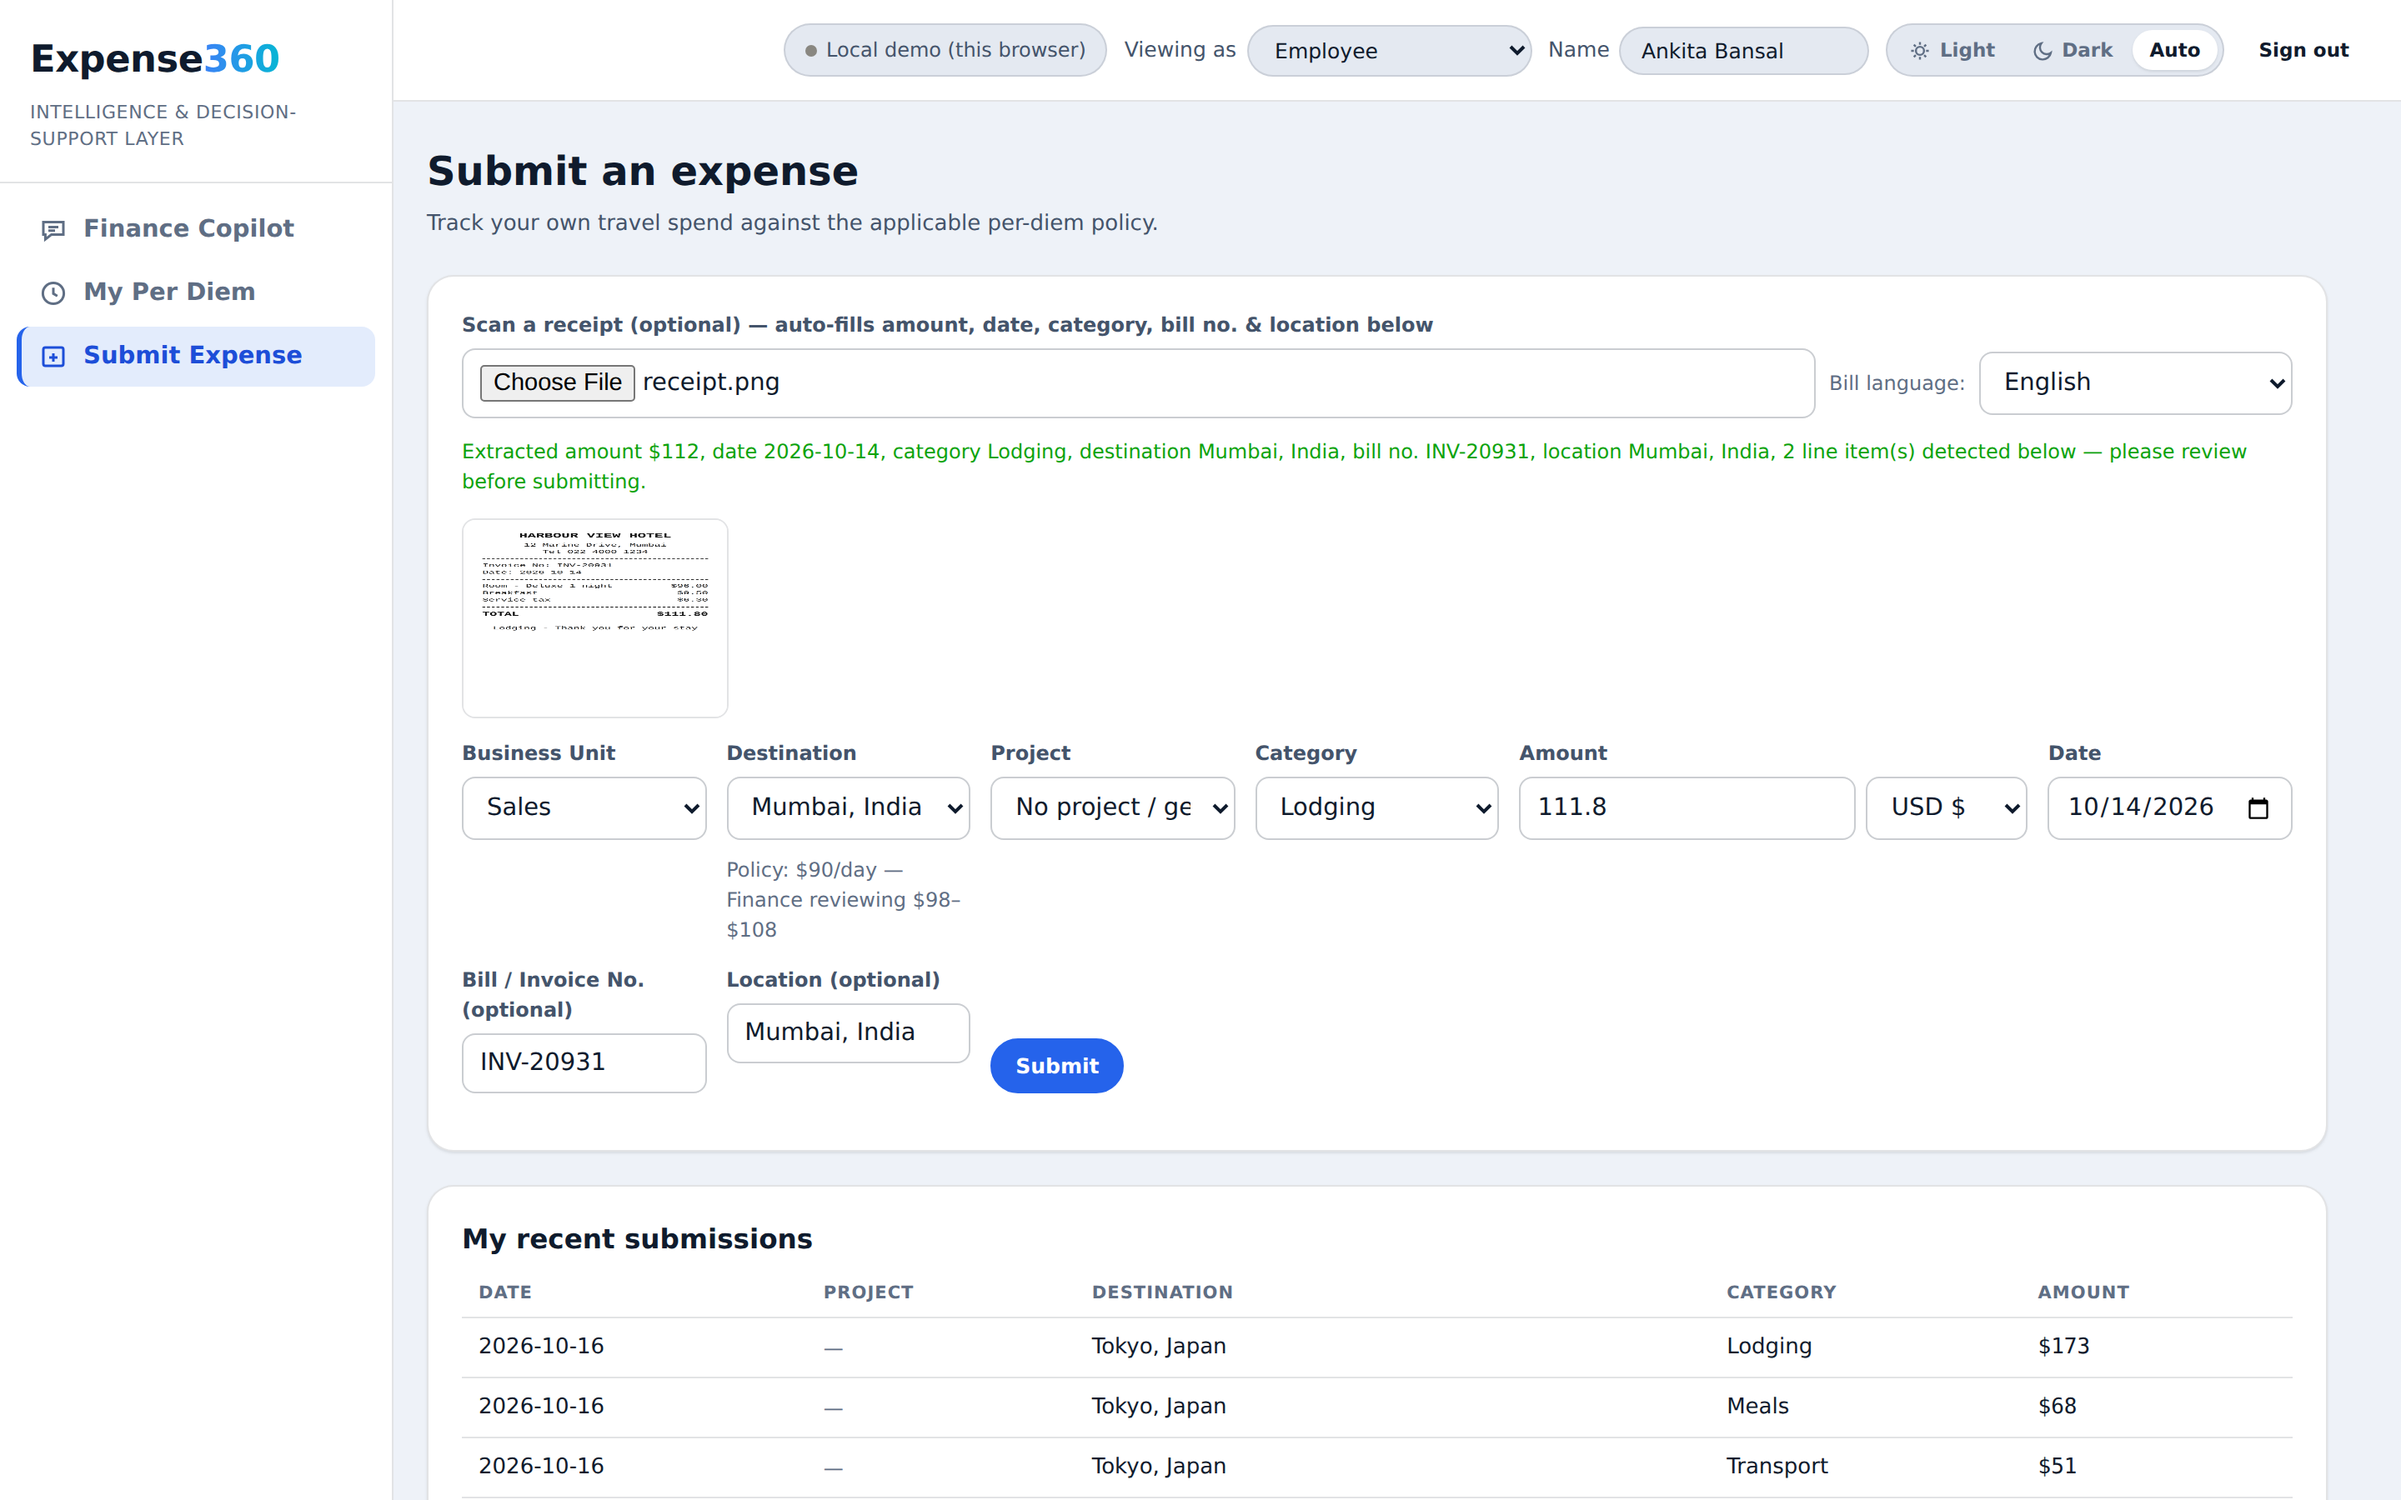
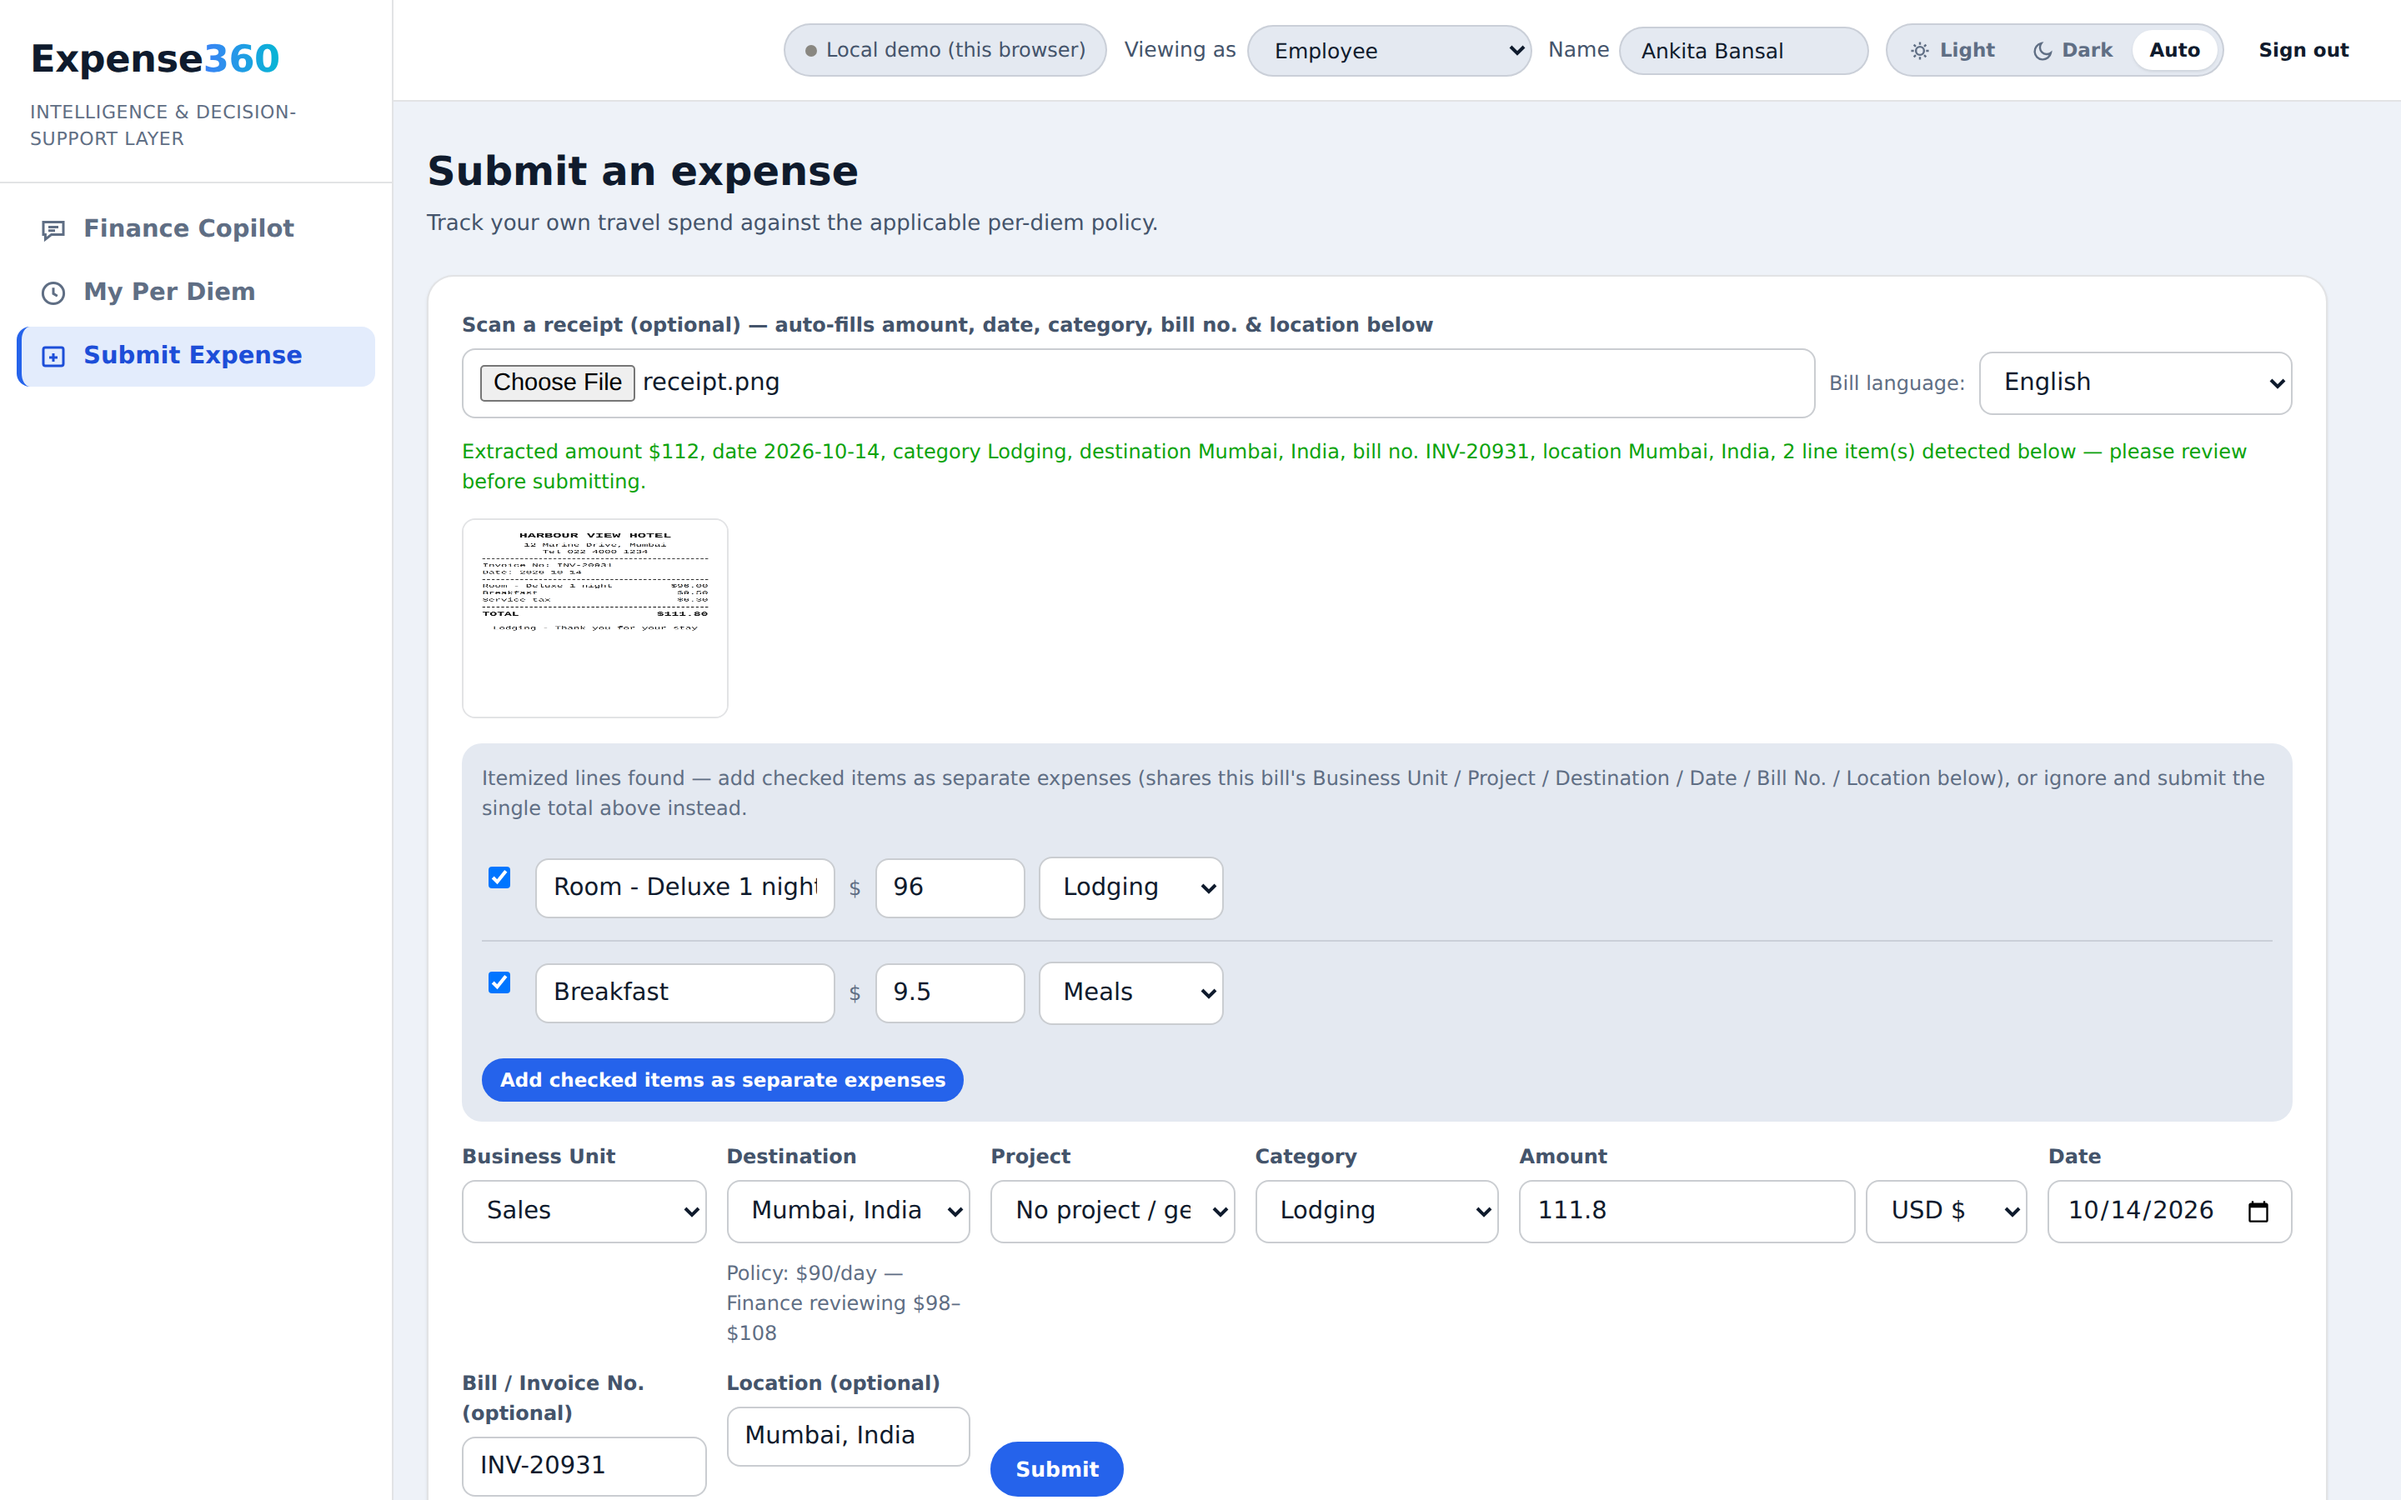
Show itemized receipt lines in the AI promo's receipt shot
With the line-item and Amount layout fixed in the app, drop the
screenshot workarounds from shoot-ai.mjs, re-shoot the receipt scan with
its two itemized lines visible, and re-aim the video highlight at them.

Claude-Session: https://claude.ai/code/session_011THwABMzmdeYGnoXexgyx1

diff --git a/marketing/video/composition-ai.html b/marketing/video/composition-ai.html
@@ -99,7 +99,7 @@
 <section class="scene light prod" data-s="43.2" data-e="48.8" data-img="forecast" data-z="1,1.3" data-f="0.85,0.55" data-hl="62,50,33,18" data-hlin="2.0" data-idx="5">
   <div class="cap"><div class="num a" data-in="0.3">06 — Predictive forecast</div><h2 class="a" data-in="0.5">See the quarter before it lands</h2><p class="a" data-in="0.8">Spend projected three months ahead against budget, org-wide or for any Business Unit.</p></div>
 </section>
-<section class="scene light prod" data-s="48.8" data-e="54.4" data-img="receipt-scan" data-z="1,1.25" data-f="0.55,0.3" data-hl="16,24.3,70,33.5" data-hlin="1.8" data-idx="6">
+<section class="scene light prod" data-s="48.8" data-e="54.4" data-img="receipt-scan" data-z="1,1.15" data-f="0.5,0.45" data-hl="18.8,28.4,77.2,46.6" data-hlin="1.8" data-idx="6">
   <div class="cap"><div class="num a" data-in="0.3">07 — Receipt OCR</div><h2 class="a" data-in="0.5">Snap a receipt. Skip the typing.</h2><p class="a" data-in="0.8">Amount, date, category, destination, bill number and line items read straight off the bill.</p></div>
 </section>
 <section class="scene light prod" data-s="54.4" data-e="60.0" data-img="audit" data-z="1,1.25" data-f="0.6,0.2" data-hl="17.6,21.8,80,7.6" data-hlin="1.8" data-idx="7">
